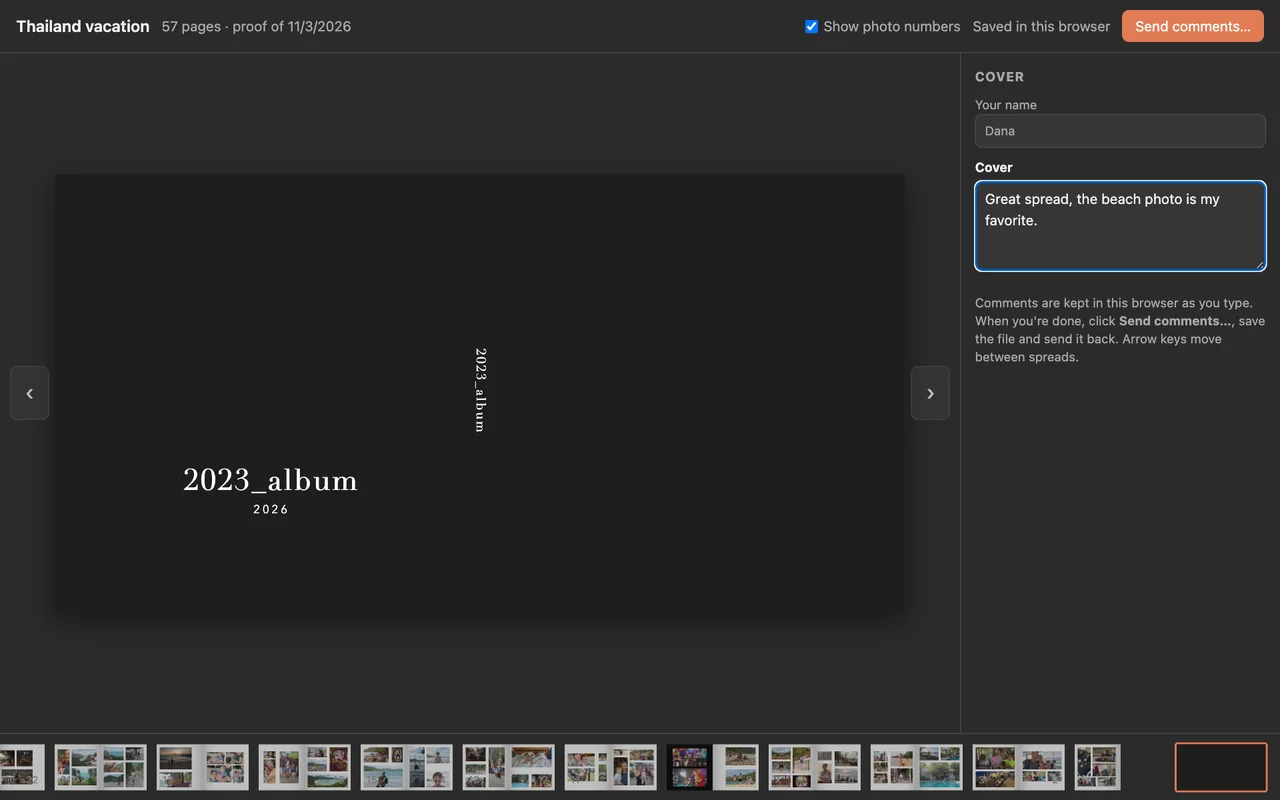
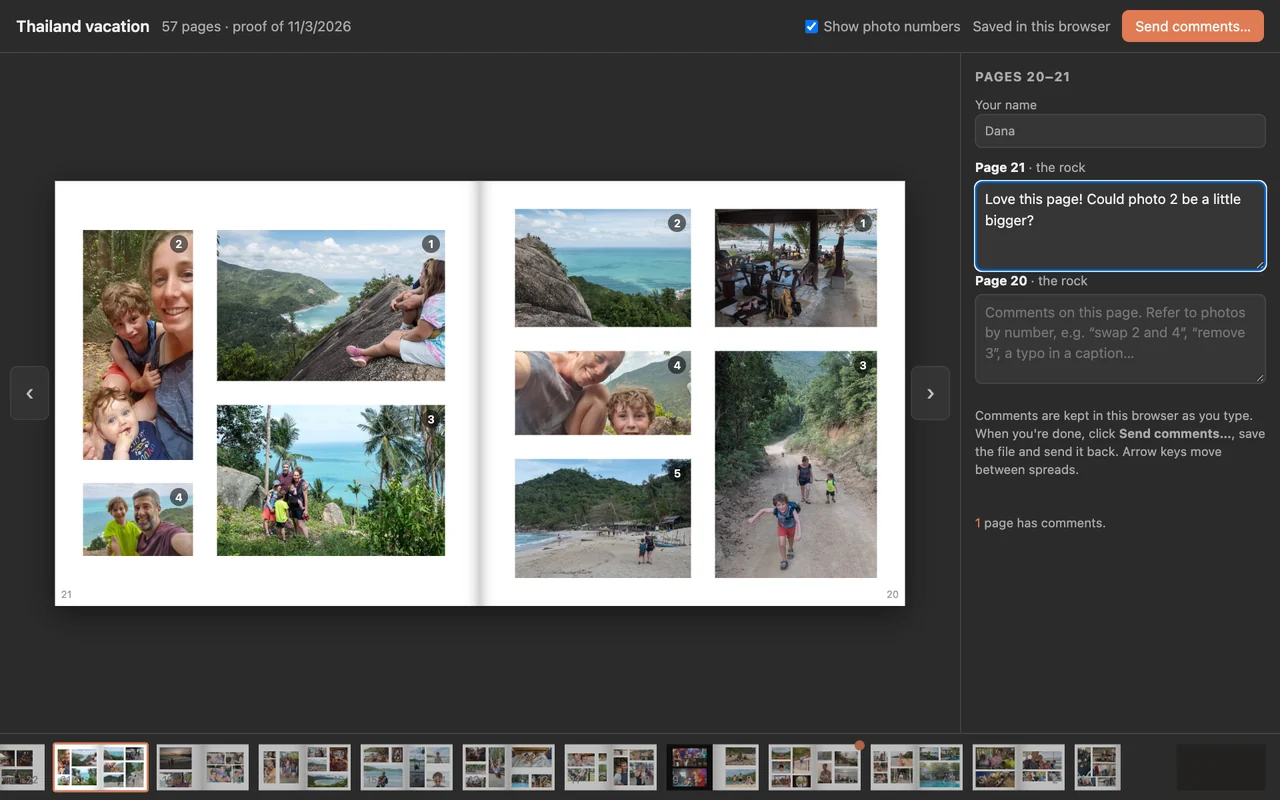
Better guide pictures; no caption under the top video
- Professional design step 4: the lock picture is zoomed out and shows the padlock with its page, the toolbar and the panel edge (English story title)
- Step 9: the proof picture shows a spread full of photos, with a comment typed in
- Removed the caption under the top video

diff --git a/i18n.js b/i18n.js
@@ -12,14 +12,13 @@ window.HE = {
   alt_r1: "שירות פרסום ב-Lightroom Classic שהאוספים שלו הופכים לסיפורים ב-FlowAlbum",
   alt_r2: "תצוגת הסידור עם תגיות גיבור, אהובה וחלופות על התמונות",
   alt_r3: "תמונה שמוזזת בכפולה, עם קו עזר ורווחים שווים מסומנים",
-  alt_r4: "תקריב על סמל המנעול בתווית העמוד: העמוד הזה נעול ל-AI",
+  alt_r4: "תצוגת העיצוב: המנעול ליד שם הסיפור של העמוד מראה שהעמוד נעול ל-AI",
   alt_r7: "קוד QR לסרטון, מודפס בפינה של העמוד האחרון בסיפור",
   alt_r8: "פתיחת התמונות בגודל ההדפסה האמיתי, עם חלון כיול המסך ופס של 10 ס\"מ",
   alt_r5: "מעצב הכריכה עם הכריכה הקדמית והאחורית",
   alt_r6: "חלון הצ'אט: Claude משנה רווחים ומחליף שתי תמונות",
   alt_r9: "הדפסת המבחן לשיתוף בדפדפן, עם תיבות הערה לכל עמוד ומספרים על התמונות",
   vc_install: "התקנה, חיבור Claude והוספת התמונות הראשונות",
-  vc_quick: "צפו איך אלבום שלם נוצר ב-100 שניות",
   vc_pro: "מעצבים כפולה ביד: הזזה, חיתוך, רווחים וקווי עזר להדפסה",
   vc_lock: "נעילה ל-AI: משאירים מה שהסתיים",
   vc_alt: "כפילויות וחלופות: בוחרים את התמונה הטובה ביותר",
@@ -121,7 +120,7 @@ window.EN_ALT = {
   alt_r1: "A Lightroom Classic publish service whose collections become stories in FlowAlbum",
   alt_r2: "Arrange with hero, favorite and alternatives badges on the photos",
   alt_r3: "A photo being moved on a spread, with a pink guide line and the equal gaps marked",
-  alt_r4: "A close-up of the padlock on a page label: this page is AI-locked",
+  alt_r4: "The Design view: the padlock next to a page's story name shows that the page is AI-locked",
   alt_r7: "A QR code for a video link, printed in the corner of the story's last page",
   alt_r8: "Spreads at the real printed size, with the screen calibration window and its 10 cm bar",
   alt_r5: "The cover designer with the front and back cover",

diff --git a/index.html b/index.html
@@ -48,8 +48,7 @@
       <picture><source media="(prefers-color-scheme: light)" srcset="assets/flowalbum-slogan.webp"><img class="hl-text" src="assets/flowalbum-slogan-dark.webp" alt=""></picture>
     </h1>
   </div>
-  <div class="hero-video"><video controls preload="metadata" playsinline poster="media/intro.webp"><source src="media/intro.mp4" type="video/mp4"></video>
-    <p class="vcap" data-i18n="vc_quick">Watch a whole album come together in 100 seconds</p></div>
+  <div class="hero-video"><video controls preload="metadata" playsinline poster="media/intro.webp"><source src="media/intro.mp4" type="video/mp4"></video></div>
 </section>
 
 

diff --git a/style.css b/style.css
@@ -149,7 +149,6 @@ figure.shot a:hover img { border-color: var(--accent); }
 /* big pictures: the first video fills the page width, every step is a row with its picture on the larger side */
 .hero-video { margin-top: 34px; }
 .hero-video video { aspect-ratio: 16 / 10; width: 100%; }
-.vcap { margin: 8px 0 0; font-size: 15px; color: var(--muted); }
 .steps, .gsteps { display: block; margin-top: 30px; }
 .steps > li, .gsteps > li { display: grid; grid-template-columns: minmax(0, 2fr) minmax(0, 1fr); gap: 34px; align-items: center; margin: 0 0 40px; }
 .stext h3 { font-size: 21px; margin-bottom: 8px; }
